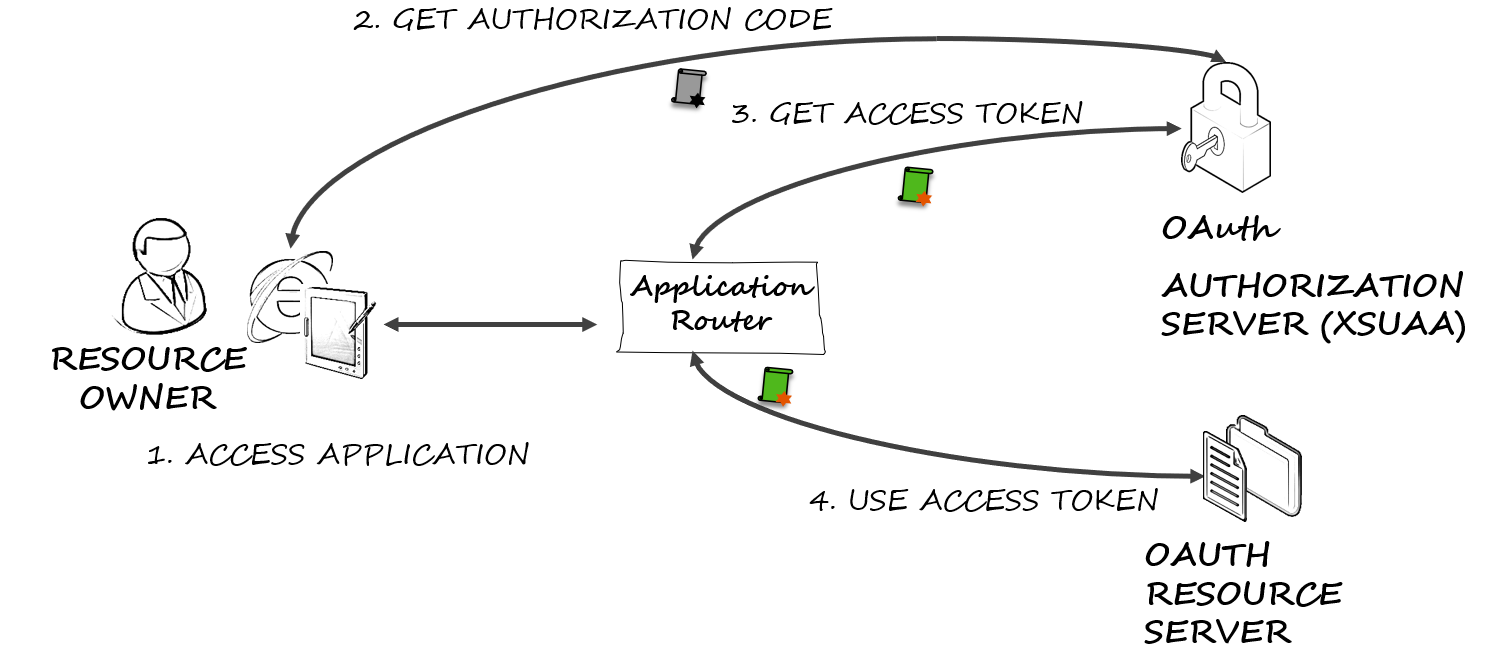
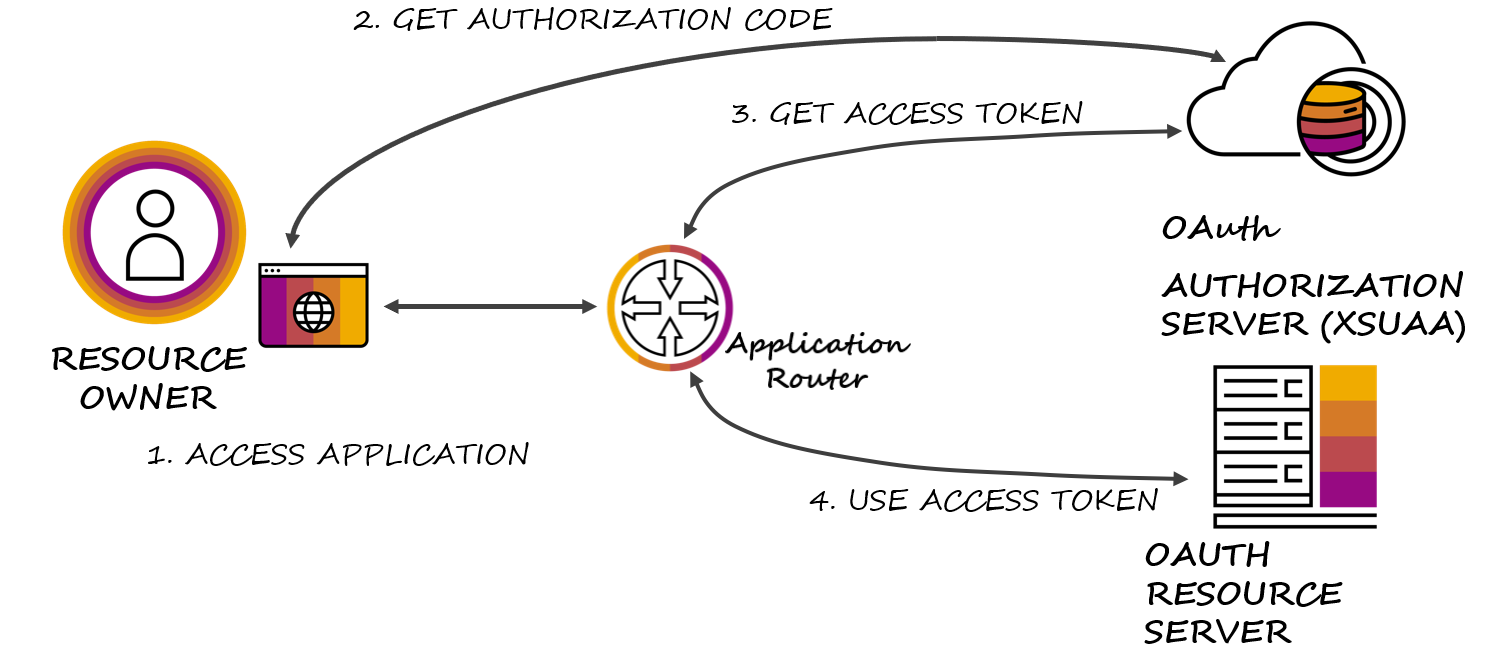
incorporate review comments

Changed region(s): [[0.0309, 0.0307, 0.9577, 0.8282], [0.4325, 0.092, 0.4943, 0.184]]

diff --git a/README.md b/README.md
@@ -8,7 +8,7 @@
 # SAP BTP Security Services Integration Libraries
 This repository offers a comprehensive set of libraries designed to simplify the integration of [SAP Business Technology Platform](https://www.sap.com/products/technology-platform.html) (SAP BTP) security services (XSUAA and Identity Services).
 Tailored to support Java EE and Spring Boot applications running on Cloud Foundry or Kubernetes environments.
-The libraries focus on streamlining [OAuth 2.0](https://oauth.net) access token validation for tokens issued by XSUAA and Identity Services, in addition, it offers a token-client library to easily fetch tokens without cumbersome setup for http requests. 
+The libraries focus on streamlining [OAuth 2.0](https://oauth.net) access token validation for tokens issued by XSUAA and Identity Services, in addition, it offers a token-client library to easily fetch tokens without cumbersome setup for http requests and offers also a testing utility that mocks Xsuaa and Identity service behaviour and makes it easy to write integration and unit tests.
 
 ## Table of Contents
 1. [Prerequisites](#prerequisites)
@@ -16,7 +16,8 @@ The libraries focus on streamlining [OAuth 2.0](https://oauth.net) access token 
    - [2.1 Token Validation](#21-token-validation)
      - [2.1.1 Java EE web applications](#211-Java-EE-web-applications)
      - [2.1.2 Spring Boot applications](#212-spring-boot-web-applications)
-   - [2.2 Token Flows](#22-token-flows)
+   - [2.2 Token Flows](#22-token-flows-for-token-retrievals)
+   - [2.3 Testing utilities](#23-testing-utilities)
 3. [Installation](#installation)
 4. [Troubleshooting](#troubleshooting)
 5. [Contributing](#contributing)
@@ -25,18 +26,18 @@ The libraries focus on streamlining [OAuth 2.0](https://oauth.net) access token 
 ## Prerequisites
 Before you can use the SAP Cloud Security Services Integration libraries, you must fulfil the following requirements:
 
-1. Access to an SAP BTP account and the XSUAA or identity service.
-2. Familiarity with OAuth 2.0 and JWT (JSON Web Tokens).
-3. Knowledge of Java programming and Spring Boot framework.
+1. Knowledge of Java programming and (Optional) Spring Boot framework.
+2. Access to an SAP BTP account and the XSUAA or Identity service.
+3. Familiarity with OAuth 2.0 and JWT (JSON Web Tokens).
 4. Java 17
 5. Maven 3.9.0 or later
 6. (Optional) Spring Boot 3.0.0 or later, Spring Security 6.0.0 or later if using the Spring integration
 
 
 ## Usage
-Typical UI5 applications consist of a server providing the HTML content and one or more application serving REST APIs used by the application. Web application use the OAuth Authorization Code Flow for interactive authentication:
+Typical applications consist of a server providing the HTML content and one or more application serving REST APIs used by the application. Web application use the OAuth Authorization Code Flow for interactive authentication:
 1. A user accesses the web application using a browser or mobile device
-2. The web application (in typical SAP Business Technology Platform scenario, this is an application router) acts as OAuth client and redirects requests to the OAuth server for authorization
+2. The web application (in typical SAP Business Technology Platform scenario, this is an application router) acts as OAuth client and redirects requests to the OAuth server for authentication
 3. Upon authentication, the web application uses the code issued by the authorization server to request an access token
 4. The web application uses the access token to request data from the OAuth resource server. The OAuth resource server validates the token using online or offline validation.
 
@@ -45,17 +46,21 @@ Typical UI5 applications consist of a server providing the HTML content and one 
 OAuth resource servers (as the one in step 4) require libraries for validating access tokens.
 
 ### 2.1. Token Validation
+Key features:
+* Automatic OAuth2 service configuration based on BTP service bindings found in environment
+* OAuth2 Token Validation based on the SAP BTP service binding attributes
+* Easy access to principal and token claims within request handlers
+* Automatic or sample integrations for common web application frameworks (i.e. Java EE / Spring Security)
 
 #### 2.1.1. Java EE web applications
 Developers who need OAuth2 token validation and token access in their Java EE applications can utilize the [java-security](./java-security) library. This library simplifies the process of acquiring token information such as principal and audiences from the security context and takes over token validation for tokens issued by Xsuaa or Identity services.
-This library is also integrated in SAP Java Buildpack. There is also testing utility library at your disposal that can be used for unit and integration tests. It provides [JwtGenerator](/java-security-test/src/main/java/com/sap/cloud/security/test/JwtGenerator.java) to generate custom JWT tokens, application server which you can setup with your defined servlets and it pre-configures a [WireMock](http://wiremock.org/docs/getting-started/) web server to stub outgoing calls to the identity service to fetch JWKS.  
+This library is also integrated in SAP Java Buildpack. 
 
 In the table below you'll find links to detailed information.
 
 | Library                                   | Usage Examples                                                                                                                                                                                                                                                                                                                                                                      | 
 |-------------------------------------------|-------------------------------------------------------------------------------------------------------------------------------------------------------------------------------------------------------------------------------------------------------------------------------------------------------------------------------------------------------------------------------------|
-| [java-security](/java-security)           | [java-security-xsuaa-usage](/samples/java-security-usage) demonstrates java-security usage with Xsuaa service <br/> [java-security-identity-usage](/samples/java-security-usage-ias) demonstrates java-security usage with identity service  <br/>    [sap-java-builpack-api-usage](/samples/sap-java-buildpack-api-usage) demonstrates java-security usage with SAP Java Buildpack |
-| [java-security-test](/java-security-test) | [Integration test code snippet](/samples/java-security-usage/src/test/java/com/sap/cloud/security/samples/HelloJavaServletIntegrationTest.java) for web.xml based servlets <br/>  [Integration test code snippet](/samples/java-security-usage-ias/src/test/java/com/sap/cloud/security/samples/ias/HelloJavaServletIntegrationTest.java) for annotation based servlets             |              
+| [java-security](/java-security)           | [java-security-xsuaa-usage](/samples/java-security-usage) demonstrates java-security usage with Xsuaa service <br/> [java-security-identity-usage](/samples/java-security-usage-ias) demonstrates java-security usage with Identity service  <br/>    [sap-java-builpack-api-usage](/samples/sap-java-buildpack-api-usage) demonstrates java-security usage with SAP Java Buildpack |
 
 :bulb: Changes with SAP Java Buildpack 1.26.0
 The former SAP Java Buildpack versions have used deprecated (Spring) Security libraries and had to be updated. As of version 1.26.0 SAP Java Buildpack uses the [`java-security`](/java-security) library. Please consider these (migration) guides:
@@ -65,22 +70,26 @@ The former SAP Java Buildpack versions have used deprecated (Spring) Security li
 
 
 #### 2.1.2. Spring Boot web applications
-Developers seeking OAuth2 token validation and access to token information in their Spring Boot applications can benefit from the [spring-security](/spring-security) library. 
+Developers seeking OAuth2 token validation and access to token information for their Spring Boot applications can benefit from the [spring-security](/spring-security) library. 
 This library streamlines the process of handling token validation for tokens issued by Xsuaa or Identity services and obtaining token details, such as principal and audiences from the security context.
-[spring-security](/spring-security) can be used for identity service alone configurations, as well as for hybrid setup with identity service along with xsuaa service. For exclusive xsuaa setups, consider using the [spring-xsuaa](/spring-xsuaa) library.
-There is also testing utility library at your disposal that can be used for unit and integration tests. It provides [JwtGenerator](/java-security-test/src/main/java/com/sap/cloud/security/test/JwtGenerator.java) to generate custom JWT tokens and it pre-configures a [WireMock](http://wiremock.org/docs/getting-started/) web server to stub outgoing calls to the identity service to fetch JWKS.
+
+:exclamation: For backward compatibility there is [spring-xsuaa](/spring-xsuaa) library available that supports only Xsuaa service integration, but with the next major release it will be removed. 
+- If you're already using [spring-xsuaa](/spring-xsuaa) you in your project you should plan the time to migrate to the [spring-security](/spring-security), see [migration guide](/spring-xsuaa/Migration_JavaContainerSecurityProjects.md). 
+- If you're just setting up your project you should use [spring-security](/spring-security) library.
 
 In the table below you'll find links to detailed information.
 
 | Library                                   | Usage Examples                                                                                                                                                                                                                                           | 
 |-------------------------------------------|----------------------------------------------------------------------------------------------------------------------------------------------------------------------------------------------------------------------------------------------------------|
-| [spring-security](/spring-security)       | [spring-security-hybrid-usage](samples/spring-security-hybrid-usage) demonstrates usage of xsuaa and identity service token validation                                                                                                                   |
+| [spring-security](/spring-security)       | [spring-security-hybrid-usage](samples/spring-security-hybrid-usage) demonstrates usage of xsuaa and Identity service token validation                                                                                                                   |
 | [spring-xsuaa](/spring-xsuaa)             | [spring-security-basic-auth](/samples/spring-security-basic-auth) demonstrates how a user can access Rest API via basic authentication (user/password)  <br/>   [spring-xsuaa-usage](/samples/spring-security-xsuaa-usage) demonstrates xsuaa only setup |
-| [java-security-test](/java-security-test) | [Integration test code snippet](/samples/spring-security-hybrid-usage/src/test/java/sample/spring/security/junitjupiter/TestControllerIasTest.java)                                                                                                      |              
 
+### 2.2. Token Flows for token retrievals
+Java applications that require access tokens (JWT) from Xsuaa or Identity services can utilize the Token Flows API from the [token-client](./token-client) library, to fetch JWT tokens for their clients (applications) or users.
 
-### 2.2. Token Flows
-Java applications that require access tokens (JWT) from Xsuaa or identity services can utilize the Token Flows API from the [token-client](./token-client) library, to fetch JWT tokens for their clients (applications) or users.
+Typical use cases:
+* technical user / system tokens for service to service communication
+* user token exchange for principal propagation in service to service communication
 
 In the table below you'll find links to detailed information.
 
@@ -88,6 +97,22 @@ In the table below you'll find links to detailed information.
 |-------------------------------------------|--------------------------------------------------------------------------------------------------------------------------------------------------------------------------------------------------------------------------------------------------------|
 | [token-client](/token-client)             | [java-tokenclient-usage](samples/java-tokenclient-usage) demonstrates usage of token client library in Java EE application<br/>   [spring-security-xsuaa-usage](samples/spring-security-xsuaa-usage) demonstrates usage in Spring Boot application     |              
 
+### 2.3 Testing utilities
+For authentication/authorization flow testing purposes there is [java-security-test](/java-security-test) library at your disposal that can be used for unit and integration tests to test the Xsuaa or Identity service client functionality in the application. 
+It provides [JwtGenerator](/java-security-test/src/main/java/com/sap/cloud/security/test/JwtGenerator.java) to generate custom JWT tokens that work together with pre-configures [WireMock](http://wiremock.org/docs/getting-started/) web server to stub outgoing calls to the Identity or Xsuaa service to fetch JWKS.
+With this library you can test end to end all your secured endpoints or app logic that is dependant on information from the tokens.
+
+Key features:
+* Generates and signs tokens with user provided attributes
+* Provides pre-configured local authorization server that mocks communication with BTP security service to validate self-generated tokens
+* For Java EE application sets up local application server that is pre-configured with security filter matching self-generated tokens and which you can configure with the servlets you want to test
+
+
+In the table below you'll find links to detailed information.
+
+| Library                                   | Usage Examples                                                                                                                                                                                                                                                                                                                                                                                                                                                                                                                                                                   | 
+|-------------------------------------------|----------------------------------------------------------------------------------------------------------------------------------------------------------------------------------------------------------------------------------------------------------------------------------------------------------------------------------------------------------------------------------------------------------------------------------------------------------------------------------------------------------------------------------------------------------------------------------|
+| [java-security-test](/java-security-test) | [Integration test code snippet](/samples/spring-security-hybrid-usage/src/test/java/sample/spring/security/junitjupiter/TestControllerIasTest.java) for Spring application <br/>[Integration test code snippet](/samples/java-security-usage/src/test/java/com/sap/cloud/security/samples/HelloJavaServletIntegrationTest.java) for Java EE web.xml based servlets <br/>  [Integration test code snippet](/samples/java-security-usage-ias/src/test/java/com/sap/cloud/security/samples/ias/HelloJavaServletIntegrationTest.java) for Java EE annotation based servlets <br/>    |
 
 ## Installation
 The SAP Cloud Security Services Integration is published to maven central: https://search.maven.org/search?q=com.sap.cloud.security and is available as a Maven dependency. Add the following BOM to your dependency management in your `pom.xml`:
@@ -113,7 +138,7 @@ along with libraries that you intend to use e.g. `java-security`
     </dependency>
 </dependencies>
 ```
-:bulb: Please refer to each library's that you intend to use `README.md` Maven Dependencies section for detailed information on which dependencies need to be added to the `pom.xml`.
+:bulb: Please refer to the Maven Dependencies section in the README.md of the library you intend to use for detailed information on which dependencies need to be added to the `pom.xml`.
 
 
 If you intend to extend this library you can clone this repository and install this project with `mvn` as follows:
